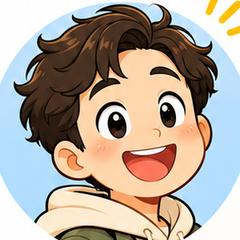
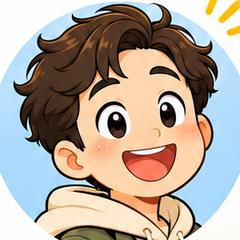
deploy: web copy update

diff --git a/index.html b/index.html
@@ -4,8 +4,8 @@
 <meta charset="utf-8">
 <meta name="viewport" content="width=device-width, initial-scale=1">
 <title>태은이의 작업실</title>
-<link rel="stylesheet" href="tokens.css?v=20261122124928">
-<link rel="stylesheet" href="style.css?v=20261122124928">
+<link rel="stylesheet" href="tokens.css?v=20261122125132">
+<link rel="stylesheet" href="style.css?v=20261122125132">
 </head>
 <body>
 <a class="skip" href="#app">본문 바로가기</a>
@@ -26,9 +26,9 @@
     <div class="person-body"><img id="person-img" src="" alt="" width="1086" height="1448"></div>
   </div>
 </dialog>
-<script src="img-sizes.js?v=20261122124928"></script>
-<script src="data.js?v=20261122124928"></script>
-<script src="app.js?v=20261122124928"></script>
-<script src="dev.js?v=20261122124928"></script>
+<script src="img-sizes.js?v=20261122125132"></script>
+<script src="data.js?v=20261122125132"></script>
+<script src="app.js?v=20261122125132"></script>
+<script src="dev.js?v=20261122125132"></script>
 </body>
 </html>
